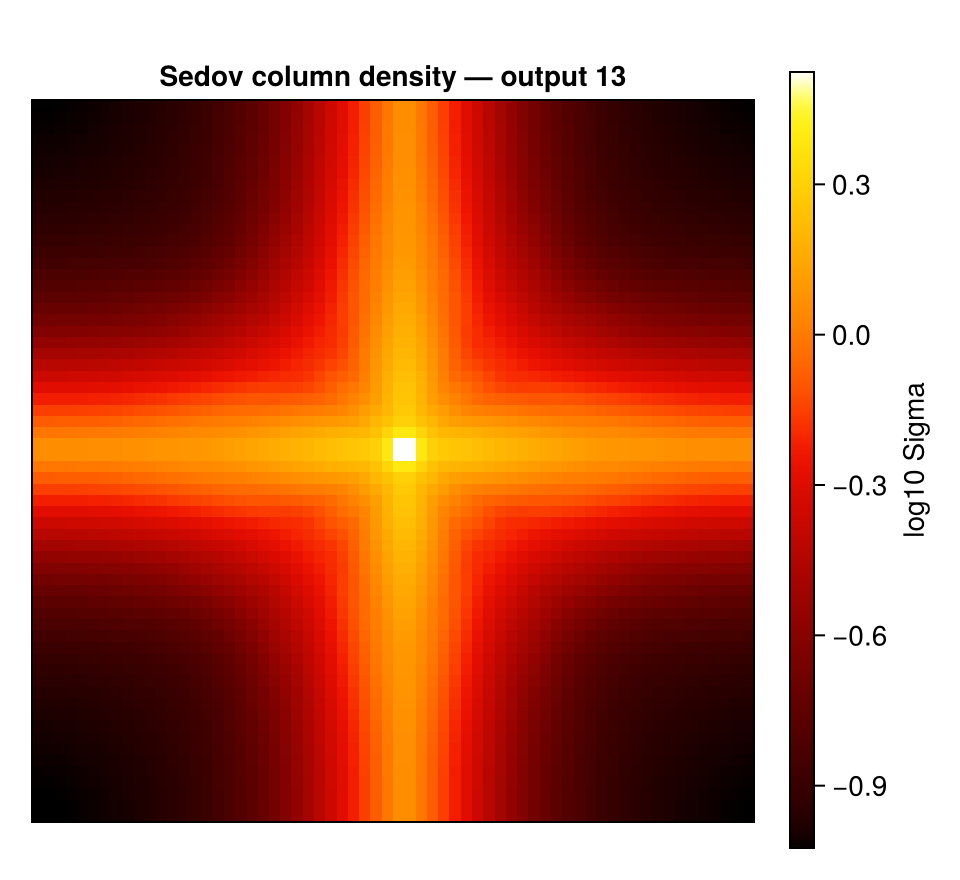
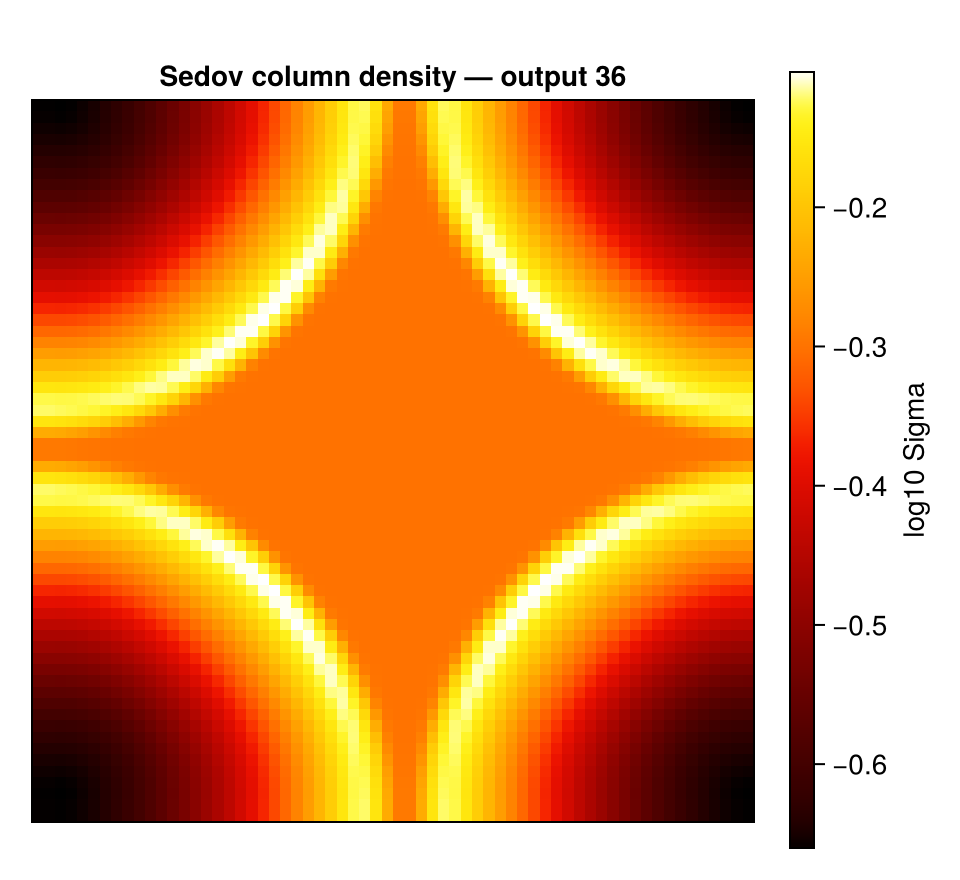
docs(movie): a smooth Sedov animation, and what it actually shows
The illustration was five frames of 64x64 pixels lasting 1.3 seconds, and
eight of its original thirteen frames showed something the caption did not
prepare anyone for.

The setup explains it. The namelist puts the energy in a single cell at the
ORIGIN, the box corner, and the run uses RAMSES's default periodic
boundaries. That part is deliberate. The consequence is that the periodic
copies collide once the shock radius reaches half the box, after which the
frames show the lattice interacting rather than a free blast.

- the fixture is regenerated locally at a finer cadence, dense through the
  phase that matters: 35 outputs at step 0.0019 up to t=0.067 where the
  copies meet, then 7 sparse ones to t=0.2. Same namelist physics, mass at
  t=0 matching to every digit, blast in the same corner cell
- the movie uses those 36 clean frames at res=256, so the shell is
  anti-aliased rather than blocky. 2.9 s at 12 fps, 0.44 MB
- one short note says what the video shows, replacing two long ones
- the MERA-FILES mirror was reconverted to match at 43 files

Periodicity needs no handling in any of this: these are full-box
projections, and the mass in a map matches the mass in the data to 3e-16 at
every output, including where the shock crosses a face.

diff --git a/docs/src/movie.md b/docs/src/movie.md
@@ -17,22 +17,15 @@ builds on the same machinery as [`timeseries`](@ref) (one snapshot resident at a
 RAM-safe) and the [`projection`](@ref) engine. Down a box axis the view is fixed by construction; off
 axis it is not, and `fov` is what makes it so (see below).
 
-![A 3-D Sedov blast over its 13 outputs, each frame tagged with its output number (tags=:output): the column-density frames produced by getmovie, encoded to a GIF by savemovie.](assets/movie/sedov_density.gif)
+![A 3-D Sedov blast over its first 36 outputs, each frame tagged with its output number (tags=:output): the column-density frames produced by getmovie, encoded to a GIF by savemovie.](assets/movie/sedov_density.gif)
 
 This notebook runs on the `timeseries_sedov3d` test run (a 3-D Sedov blast, 13 outputs). All
 file outputs are written to a temporary directory.
 
-!!! note "Why the shells converge instead of expanding"
-    The blast in this fixture sits at the **origin corner**, not at the box centre: at `t=0` the
-    pressure peak is at `(0.008, 0.008, 0.008)` in a `0.5` box. The box is periodic, so the single
-    outgoing shell leaves through the low faces and re-enters through the high ones. What you see
-    is one shell wrapping around, arriving from every side and meeting last at the box centre,
-    which is the point farthest from the corner.
-
-    It is expanding, not collapsing. Measured with the periodic (minimum-image) radius about the
-    origin, the mass-weighted shell radius grows from 0.22 to 0.30 over the series. Measured with
-    the plain `:r_sphere` it would not, because the direct distance from a corner is the long way
-    round: see [`getvar`](@ref)'s `:r_sphere_periodic`.
+!!! note "What you are looking at"
+    A point explosion set off in one corner cell of a small periodic box. The shell
+    expands, wraps through the faces and arrives from every side, so it appears as four
+    quarter arcs closing in. The movie stops before the wrapped copies collide.
 
 ```julia
 # Example-data root. Point this at your own simulation folder, or set the
@@ -44,8 +37,9 @@ run  = joinpath(MERA_EXAMPLES, "RAMSES/timeseries_sedov3d")
 tmp  = mktempdir()
 println("temp output dir : ", tmp)
 
-# one column-density frame per output (numeric maps, no files written)
-m = getmovie(run, :sd)
+# one column-density frame per output (numeric maps, no files written).
+# `outputs` picks a subset; leave it out and every output in the run is used.
+m = getmovie(run, :sd; outputs=1:36, res=256)
 println("frames          : ", length(m.frames))
 println("frame size      : ", size(m.frames[1]))
 println("output numbers  : ", m.outputs)
@@ -60,24 +54,47 @@ println("output numbers  : ", m.outputs)
 | ||_|| |   |___|   |  | |   _   |
 |_|   |_|_______|___|  |_|__| |__|
 Mera v1.8.0 | Julia 1.12.7 | 4 threads
-temp output dir : /var/folders/k5/gw4hqgwj5_qf8sljz0091x1m0000gp/T/jl_Eak2bV
-getmovie: 13 frame(s) of :sd from "/Volumes/FASTStorage/Simulations/Mera-Tests/RAMSES/timeseries_sedov3d"
-  [1/13] output 00001
-  [2/13] output 00002
-  [3/13] output 00003
-  [4/13] output 00004
-  [5/13] output 00005
-  [6/13] output 00006
-  [7/13] output 00007
-  [8/13] output 00008
-  [9/13] output 00009
-  [10/13] output 00010
-  [11/13] output 00011
-  [12/13] output 00012
-  [13/13] output 00013
-frames          : 13
-frame size      : (64, 64)
-output numbers  : [1, 2, 3, 4, 5, 6, 7, 8, 9, 10, 11, 12, 13]
+temp output dir : /var/folders/k5/gw4hqgwj5_qf8sljz0091x1m0000gp/T/jl_IvvUEF
+getmovie: 36 frame(s) of :sd from "/Volumes/FASTStorage/Simulations/Mera-Tests/RAMSES/timeseries_sedov3d"
+  [1/36] output 00001
+  [2/36] output 00002
+  [3/36] output 00003
+  [4/36] output 00004
+  [5/36] output 00005
+  [6/36] output 00006
+  [7/36] output 00007
+  [8/36] output 00008
+  [9/36] output 00009
+  [10/36] output 00010
+  [11/36] output 00011
+  [12/36] output 00012
+  [13/36] output 00013
+  [14/36] output 00014
+  [15/36] output 00015
+  [16/36] output 00016
+  [17/36] output 00017
+  [18/36] output 00018
+  [19/36] output 00019
+  [20/36] output 00020
+  [21/36] output 00021
+  [22/36] output 00022
+  [23/36] output 00023
+  [24/36] output 00024
+  [25/36] output 00025
+  [26/36] output 00026
+  [27/36] output 00027
+  [28/36] output 00028
+  [29/36] output 00029
+  [30/36] output 00030
+  [31/36] output 00031
+  [32/36] output 00032
+  [33/36] output 00033
+  [34/36] output 00034
+  [35/36] output 00035
+  [36/36] output 00036
+frames          : 36
+frame size      : (256, 256)
+output numbers  : [1, 2, 3, 4, 5, 6, 7, 8, 9, 10, 11, 12, 13, 14, 15, 16, 17, 18, 19, 20, 21, 22, 23, 24, 25, 26, 27, 28, 29, 30, 31, 32, 33, 34, 35, 36]
 ```
 
 ## How it works (no scratch images)
@@ -170,8 +187,8 @@ println("every frame the same size: ",
 ```
 
 ```
-angles : 39 frames from 13 outputs
-sweep  : 13 frames, each a different time and angle
+angles : 129 frames from 43 outputs
+sweep  : 43 frames, each a different time and angle
 every frame the same size: true
 ```
 
@@ -218,8 +235,31 @@ println("wrote GIF       : ", gif, "  (", filesize(gif), " bytes)")
   frame 11: output 00011
   frame 12: output 00012
   frame 13: output 00013
-savemovie: wrote 13 frames → /var/folders/k5/gw4hqgwj5_qf8sljz0091x1m0000gp/T/jl_Eak2bV/density.gif
-wrote GIF       : /var/folders/k5/gw4hqgwj5_qf8sljz0091x1m0000gp/T/jl_Eak2bV/density.gif  (41062 bytes)
+  frame 14: output 00014
+  frame 15: output 00015
+  frame 16: output 00016
+  frame 17: output 00017
+  frame 18: output 00018
+  frame 19: output 00019
+  frame 20: output 00020
+  frame 21: output 00021
+  frame 22: output 00022
+  frame 23: output 00023
+  frame 24: output 00024
+  frame 25: output 00025
+  frame 26: output 00026
+  frame 27: output 00027
+  frame 28: output 00028
+  frame 29: output 00029
+  frame 30: output 00030
+  frame 31: output 00031
+  frame 32: output 00032
+  frame 33: output 00033
+  frame 34: output 00034
+  frame 35: output 00035
+  frame 36: output 00036
+savemovie: wrote 36 frames → /var/folders/k5/gw4hqgwj5_qf8sljz0091x1m0000gp/T/jl_IvvUEF/density.gif
+wrote GIF       : /var/folders/k5/gw4hqgwj5_qf8sljz0091x1m0000gp/T/jl_IvvUEF/density.gif  (466105 bytes)
 ```
 
 ## Saving: colormap, scaling, steady brightness
@@ -238,20 +278,43 @@ println("wrote          : ", gif2, "  (", filesize(gif2), " bytes)")
 
 ```
   frame 1: t=0.0 Myr
-  frame 2: t=5.332e-16 Myr
-  frame 3: t=1.061e-15 Myr
-  frame 4: t=1.591e-15 Myr
-  frame 5: t=2.123e-15 Myr
-  frame 6: t=2.649e-15 Myr
-  frame 7: t=3.176e-15 Myr
-  frame 8: t=3.708e-15 Myr
-  frame 9: t=4.24e-15 Myr
-  frame 10: t=4.769e-15 Myr
-  frame 11: t=5.302e-15 Myr
-  frame 12: t=5.822e-15 Myr
-  frame 13: t=6.352e-15 Myr
-savemovie: wrote 13 frames → /var/folders/k5/gw4hqgwj5_qf8sljz0091x1m0000gp/T/jl_Eak2bV/density_gray.gif
-wrote          : /var/folders/k5/gw4hqgwj5_qf8sljz0091x1m0000gp/T/jl_Eak2bV/density_gray.gif  (42812 bytes)
+  frame 2: t=6.025e-17 Myr
+  frame 3: t=1.212e-16 Myr
+  frame 4: t=1.845e-16 Myr
+  frame 5: t=2.415e-16 Myr
+  frame 6: t=3.03e-16 Myr
+  frame 7: t=3.633e-16 Myr
+  frame 8: t=4.268e-16 Myr
+  frame 9: t=4.82e-16 Myr
+  frame 10: t=5.448e-16 Myr
+  frame 11: t=6.039e-16 Myr
+  frame 12: t=6.646e-16 Myr
+  frame 13: t=7.27e-16 Myr
+  frame 14: t=7.845e-16 Myr
+  frame 15: t=8.432e-16 Myr
+  frame 16: t=9.031e-16 Myr
+  frame 17: t=9.642e-16 Myr
+  frame 18: t=1.026e-15 Myr
+  frame 19: t=1.09e-15 Myr
+  frame 20: t=1.147e-15 Myr
+  frame 21: t=1.204e-15 Myr
+  frame 22: t=1.27e-15 Myr
+  frame 23: t=1.33e-15 Myr
+  frame 24: t=1.39e-15 Myr
+  frame 25: t=1.451e-15 Myr
+  frame 26: t=1.513e-15 Myr
+  frame 27: t=1.567e-15 Myr
+  frame 28: t=1.63e-15 Myr
+  frame 29: t=1.686e-15 Myr
+  frame 30: t=1.75e-15 Myr
+  frame 31: t=1.807e-15 Myr
+  frame 32: t=1.872e-15 Myr
+  frame 33: t=1.93e-15 Myr
+  frame 34: t=1.988e-15 Myr
+  frame 35: t=2.055e-15 Myr
+  frame 36: t=2.115e-15 Myr
+savemovie: wrote 36 frames → /var/folders/k5/gw4hqgwj5_qf8sljz0091x1m0000gp/T/jl_IvvUEF/density_gray.gif
+wrote          : /var/folders/k5/gw4hqgwj5_qf8sljz0091x1m0000gp/T/jl_IvvUEF/density_gray.gif  (437733 bytes)
 ```
 
 - **`colorrange=:global`** (default) computes a single range over *all* frames, so the movie
@@ -298,34 +361,80 @@ println("custom tags    : ", basename(gif4))
 
 ```
   frame 1: output 00001 | t=0.0 Myr
-  frame 2: output 00002 | t=5.332e-16 Myr
-  frame 3: output 00003 | t=1.061e-15 Myr
-  frame 4: output 00004 | t=1.591e-15 Myr
-  frame 5: output 00005 | t=2.123e-15 Myr
-  frame 6: output 00006 | t=2.649e-15 Myr
-  frame 7: output 00007 | t=3.176e-15 Myr
-  frame 8: output 00008 | t=3.708e-15 Myr
-  frame 9: output 00009 | t=4.24e-15 Myr
-  frame 10: output 00010 | t=4.769e-15 Myr
-  frame 11: output 00011 | t=5.302e-15 Myr
-  frame 12: output 00012 | t=5.822e-15 Myr
-  frame 13: output 00013 | t=6.352e-15 Myr
-savemovie: wrote 13 frames → /var/folders/k5/gw4hqgwj5_qf8sljz0091x1m0000gp/T/jl_Eak2bV/density_tagged.gif
+  frame 2: output 00002 | t=6.025e-17 Myr
+  frame 3: output 00003 | t=1.212e-16 Myr
+  frame 4: output 00004 | t=1.845e-16 Myr
+  frame 5: output 00005 | t=2.415e-16 Myr
+  frame 6: output 00006 | t=3.03e-16 Myr
+  frame 7: output 00007 | t=3.633e-16 Myr
+  frame 8: output 00008 | t=4.268e-16 Myr
+  frame 9: output 00009 | t=4.82e-16 Myr
+  frame 10: output 00010 | t=5.448e-16 Myr
+  frame 11: output 00011 | t=6.039e-16 Myr
+  frame 12: output 00012 | t=6.646e-16 Myr
+  frame 13: output 00013 | t=7.27e-16 Myr
+  frame 14: output 00014 | t=7.845e-16 Myr
+  frame 15: output 00015 | t=8.432e-16 Myr
+  frame 16: output 00016 | t=9.031e-16 Myr
+  frame 17: output 00017 | t=9.642e-16 Myr
+  frame 18: output 00018 | t=1.026e-15 Myr
+  frame 19: output 00019 | t=1.09e-15 Myr
+  frame 20: output 00020 | t=1.147e-15 Myr
+  frame 21: output 00021 | t=1.204e-15 Myr
+  frame 22: output 00022 | t=1.27e-15 Myr
+  frame 23: output 00023 | t=1.33e-15 Myr
+  frame 24: output 00024 | t=1.39e-15 Myr
+  frame 25: output 00025 | t=1.451e-15 Myr
+  frame 26: output 00026 | t=1.513e-15 Myr
+  frame 27: output 00027 | t=1.567e-15 Myr
+  frame 28: output 00028 | t=1.63e-15 Myr
+  frame 29: output 00029 | t=1.686e-15 Myr
+  frame 30: output 00030 | t=1.75e-15 Myr
+  frame 31: output 00031 | t=1.807e-15 Myr
+  frame 32: output 00032 | t=1.872e-15 Myr
+  frame 33: output 00033 | t=1.93e-15 Myr
+  frame 34: output 00034 | t=1.988e-15 Myr
+  frame 35: output 00035 | t=2.055e-15 Myr
+  frame 36: output 00036 | t=2.115e-15 Myr
+savemovie: wrote 36 frames → /var/folders/k5/gw4hqgwj5_qf8sljz0091x1m0000gp/T/jl_IvvUEF/density_tagged.gif
 two-line tags  : density_tagged.gif
-  frame 1: frame 1/13
-  frame 2: frame 2/13
-  frame 3: frame 3/13
-  frame 4: frame 4/13
-  frame 5: frame 5/13
-  frame 6: frame 6/13
-  frame 7: frame 7/13
-  frame 8: frame 8/13
-  frame 9: frame 9/13
-  frame 10: frame 10/13
-  frame 11: frame 11/13
-  frame 12: frame 12/13
-  frame 13: frame 13/13
-savemovie: wrote 13 frames → /var/folders/k5/gw4hqgwj5_qf8sljz0091x1m0000gp/T/jl_Eak2bV/density_custom.gif
+  frame 1: frame 1/36
+  frame 2: frame 2/36
+  frame 3: frame 3/36
+  frame 4: frame 4/36
+  frame 5: frame 5/36
+  frame 6: frame 6/36
+  frame 7: frame 7/36
+  frame 8: frame 8/36
+  frame 9: frame 9/36
+  frame 10: frame 10/36
+  frame 11: frame 11/36
+  frame 12: frame 12/36
+  frame 13: frame 13/36
+  frame 14: frame 14/36
+  frame 15: frame 15/36
+  frame 16: frame 16/36
+  frame 17: frame 17/36
+  frame 18: frame 18/36
+  frame 19: frame 19/36
+  frame 20: frame 20/36
+  frame 21: frame 21/36
+  frame 22: frame 22/36
+  frame 23: frame 23/36
+  frame 24: frame 24/36
+  frame 25: frame 25/36
+  frame 26: frame 26/36
+  frame 27: frame 27/36
+  frame 28: frame 28/36
+  frame 29: frame 29/36
+  frame 30: frame 30/36
+  frame 31: frame 31/36
+  frame 32: frame 32/36
+  frame 33: frame 33/36
+  frame 34: frame 34/36
+  frame 35: frame 35/36
+  frame 36: frame 36/36
+savemovie: wrote 36 frames → /var/folders/k5/gw4hqgwj5_qf8sljz0091x1m0000gp/T/jl_IvvUEF/density_custom.gif
 custom tags    : density_custom.gif
 ```
 
@@ -346,9 +455,9 @@ println("reloaded frames: ", length(m2.frames), "  (identical: ", length(m2.fram
 ```
 
 ```
-Saved MeraMovie (13 frames) → /var/folders/k5/gw4hqgwj5_qf8sljz0091x1m0000gp/T/jl_Eak2bV/density.jld2
-Loaded MeraMovie (13 frames) ← /var/folders/k5/gw4hqgwj5_qf8sljz0091x1m0000gp/T/jl_Eak2bV/density.jld2
-reloaded frames: 13  (identical: true)
+Saved MeraMovie (36 frames) → /var/folders/k5/gw4hqgwj5_qf8sljz0091x1m0000gp/T/jl_IvvUEF/density.jld2
+Loaded MeraMovie (36 frames) ← /var/folders/k5/gw4hqgwj5_qf8sljz0091x1m0000gp/T/jl_IvvUEF/density.jld2
+reloaded frames: 36  (identical: true)
 ```
 
 `savemovie` switches on the extension: `.gif` encodes a movie, `.jld2` persists the object.
@@ -393,8 +502,8 @@ println("assembled      : ", out_gif, "  (", filesize(out_gif), " bytes)")
 ```
 
 ```
-moviefromframes: 13 image(s) from /var/folders/k5/gw4hqgwj5_qf8sljz0091x1m0000gp/T/jl_Eak2bV/frames → /var/folders/k5/gw4hqgwj5_qf8sljz0091x1m0000gp/T/jl_Eak2bV/from_frames.gif
-assembled      : /var/folders/k5/gw4hqgwj5_qf8sljz0091x1m0000gp/T/jl_Eak2bV/from_frames.gif  (556105 bytes)
+moviefromframes: 36 image(s) from /var/folders/k5/gw4hqgwj5_qf8sljz0091x1m0000gp/T/jl_IvvUEF/frames → /var/folders/k5/gw4hqgwj5_qf8sljz0091x1m0000gp/T/jl_IvvUEF/from_frames.gif
+assembled      : /var/folders/k5/gw4hqgwj5_qf8sljz0091x1m0000gp/T/jl_IvvUEF/from_frames.gif  (1059995 bytes)
 ```
 
 …or feed the PNGs to `ffmpeg` for an MP4:
